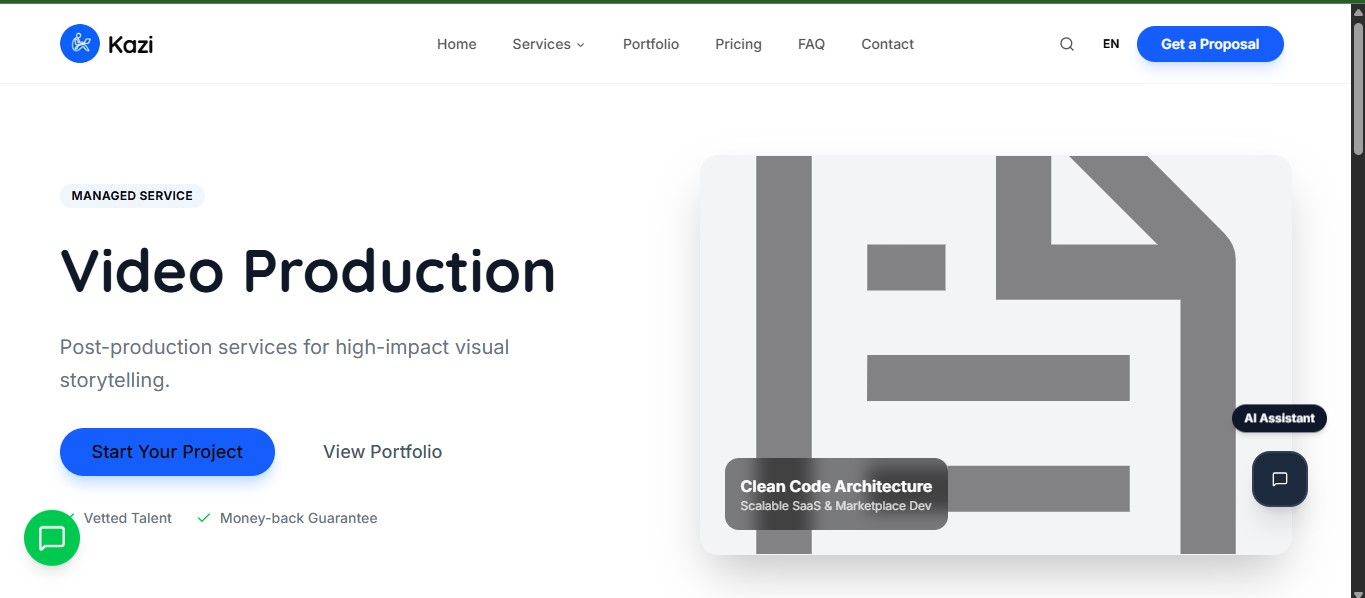
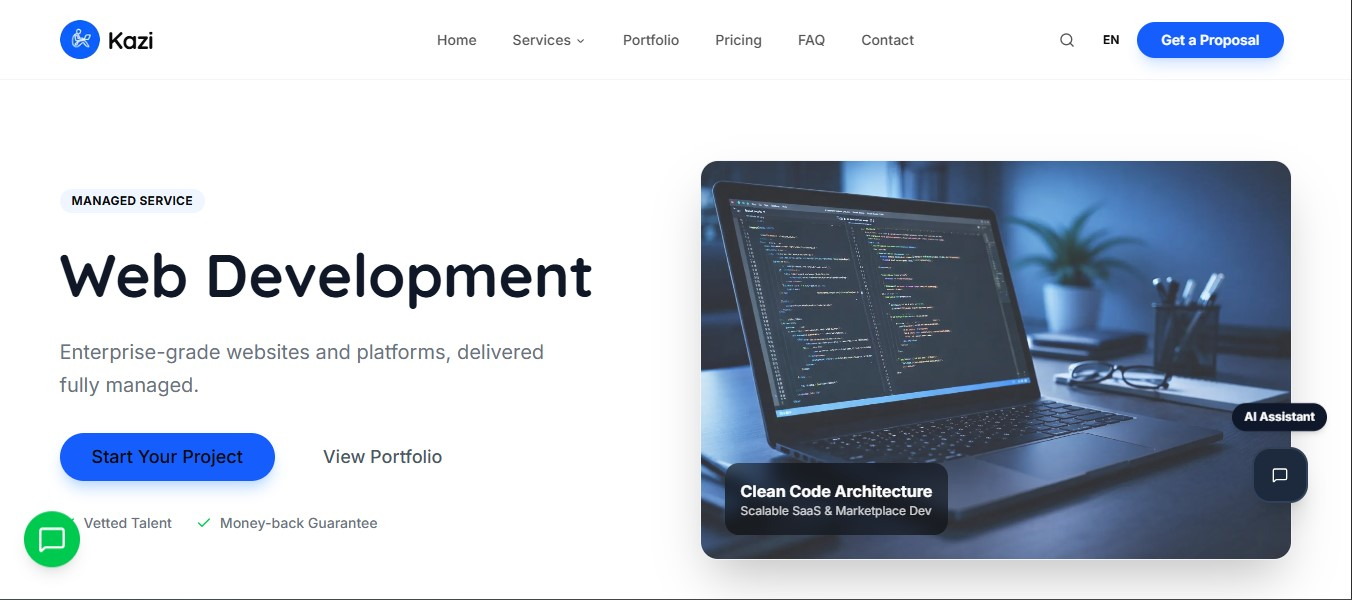
image commit

diff --git a/components/home/HeroSection.tsx b/components/home/HeroSection.tsx
@@ -50,41 +50,31 @@ export default function HeroSection() {
           </div>
 
           {/* Right Column: Hero Image */}
-          <div className="relative h-[400px] sm:h-[450px] md:h-[500px] lg:h-[650px] xl:h-[700px] w-full rounded-3xl overflow-hidden shadow-2xl bg-gradient-to-br from-blue-50 to-indigo-100 dark:from-slate-800 dark:to-slate-900 border border-border/50 group">
-            {/* Background gradient overlay */}
-            <div className="absolute inset-0 bg-gradient-to-tr from-blue-600/10 via-transparent to-purple-600/10 dark:from-blue-900/20 dark:to-purple-900/20 z-10" />
-
-            {/* Main Image Container */}
-            <div className="relative h-full w-full overflow-hidden">
-              <Image
-                src="/hero-section1.jpeg"
-                alt="Developer working on laptop with code on screen"
-                fill
-                priority
-                quality={95}
-                sizes="(max-width: 768px) 100vw, (max-width: 1024px) 50vw, 600px"
-                className="object-cover object-center transition-transform duration-700 ease-out"
-              />
-            </div>
+          <div className="relative h-[400px] sm:h-[450px] md:h-[500px] lg:h-[550px] w-full rounded-2xl overflow-hidden shadow-2xl border border-gray-100 dark:border-slate-700 bg-gray-100 dark:bg-slate-800">
+            <Image
+              src="/hero-section.png"
+              alt="Professional team collaboration"
+              fill
+              priority
+              quality={95}
+              sizes="(max-width: 768px) 100vw, (max-width: 1024px) 50vw, 600px"
+              className="object-cover object-center"
+            />
 
             {/* Floating Stats Card */}
-            <div className="absolute bottom-6 left-6 right-6 sm:left-8 sm:right-8 bg-white/95 dark:bg-slate-900/95 backdrop-blur-md p-5 rounded-2xl shadow-xl border border-white/60 dark:border-slate-700/60 transform hover:scale-105 transition-transform duration-300">
-              <div className="flex items-center gap-4">
-                <div className="h-12 w-12 rounded-full bg-gradient-to-br from-green-400 to-green-600 dark:from-green-500 dark:to-green-700 flex items-center justify-center shadow-lg">
-                  <span className="text-white text-xl">✓</span>
+            <div className="absolute bottom-6 left-6 bg-white/95 dark:bg-slate-900/95 backdrop-blur-md p-4 rounded-xl shadow-xl border border-white/60 dark:border-slate-700/60">
+              <div className="flex items-center gap-3">
+                <div className="h-10 w-10 rounded-full bg-gradient-to-br from-green-400 to-green-600 flex items-center justify-center shadow-lg">
+                  <span className="text-white text-lg">✓</span>
                 </div>
                 <div>
-                  <p className="font-bold text-gray-900 dark:text-gray-100 text-2xl">
+                  <p className="font-bold text-gray-900 dark:text-gray-100 text-xl">
                     <AnimatedCounter end={100} suffix="+" duration={2500} />
                   </p>
-                  <p className="text-sm text-gray-600 dark:text-gray-400">{t.about.stats.projects}</p>
+                  <p className="text-xs text-gray-600 dark:text-gray-400">{t.about.stats.projects}</p>
                 </div>
               </div>
             </div>
-
-            {/* Decorative Elements */}
-            <div className="absolute top-6 right-6 w-24 h-24 bg-blue-400/20 dark:bg-blue-500/10 rounded-full blur-2xl group-hover:scale-150 transition-transform duration-500" />
-            <div className="absolute bottom-1/3 left-6 w-16 h-16 bg-purple-400/20 dark:bg-purple-500/10 rounded-full blur-xl group-hover:scale-125 transition-transform duration-500" />
           </div>
 
         </div>
